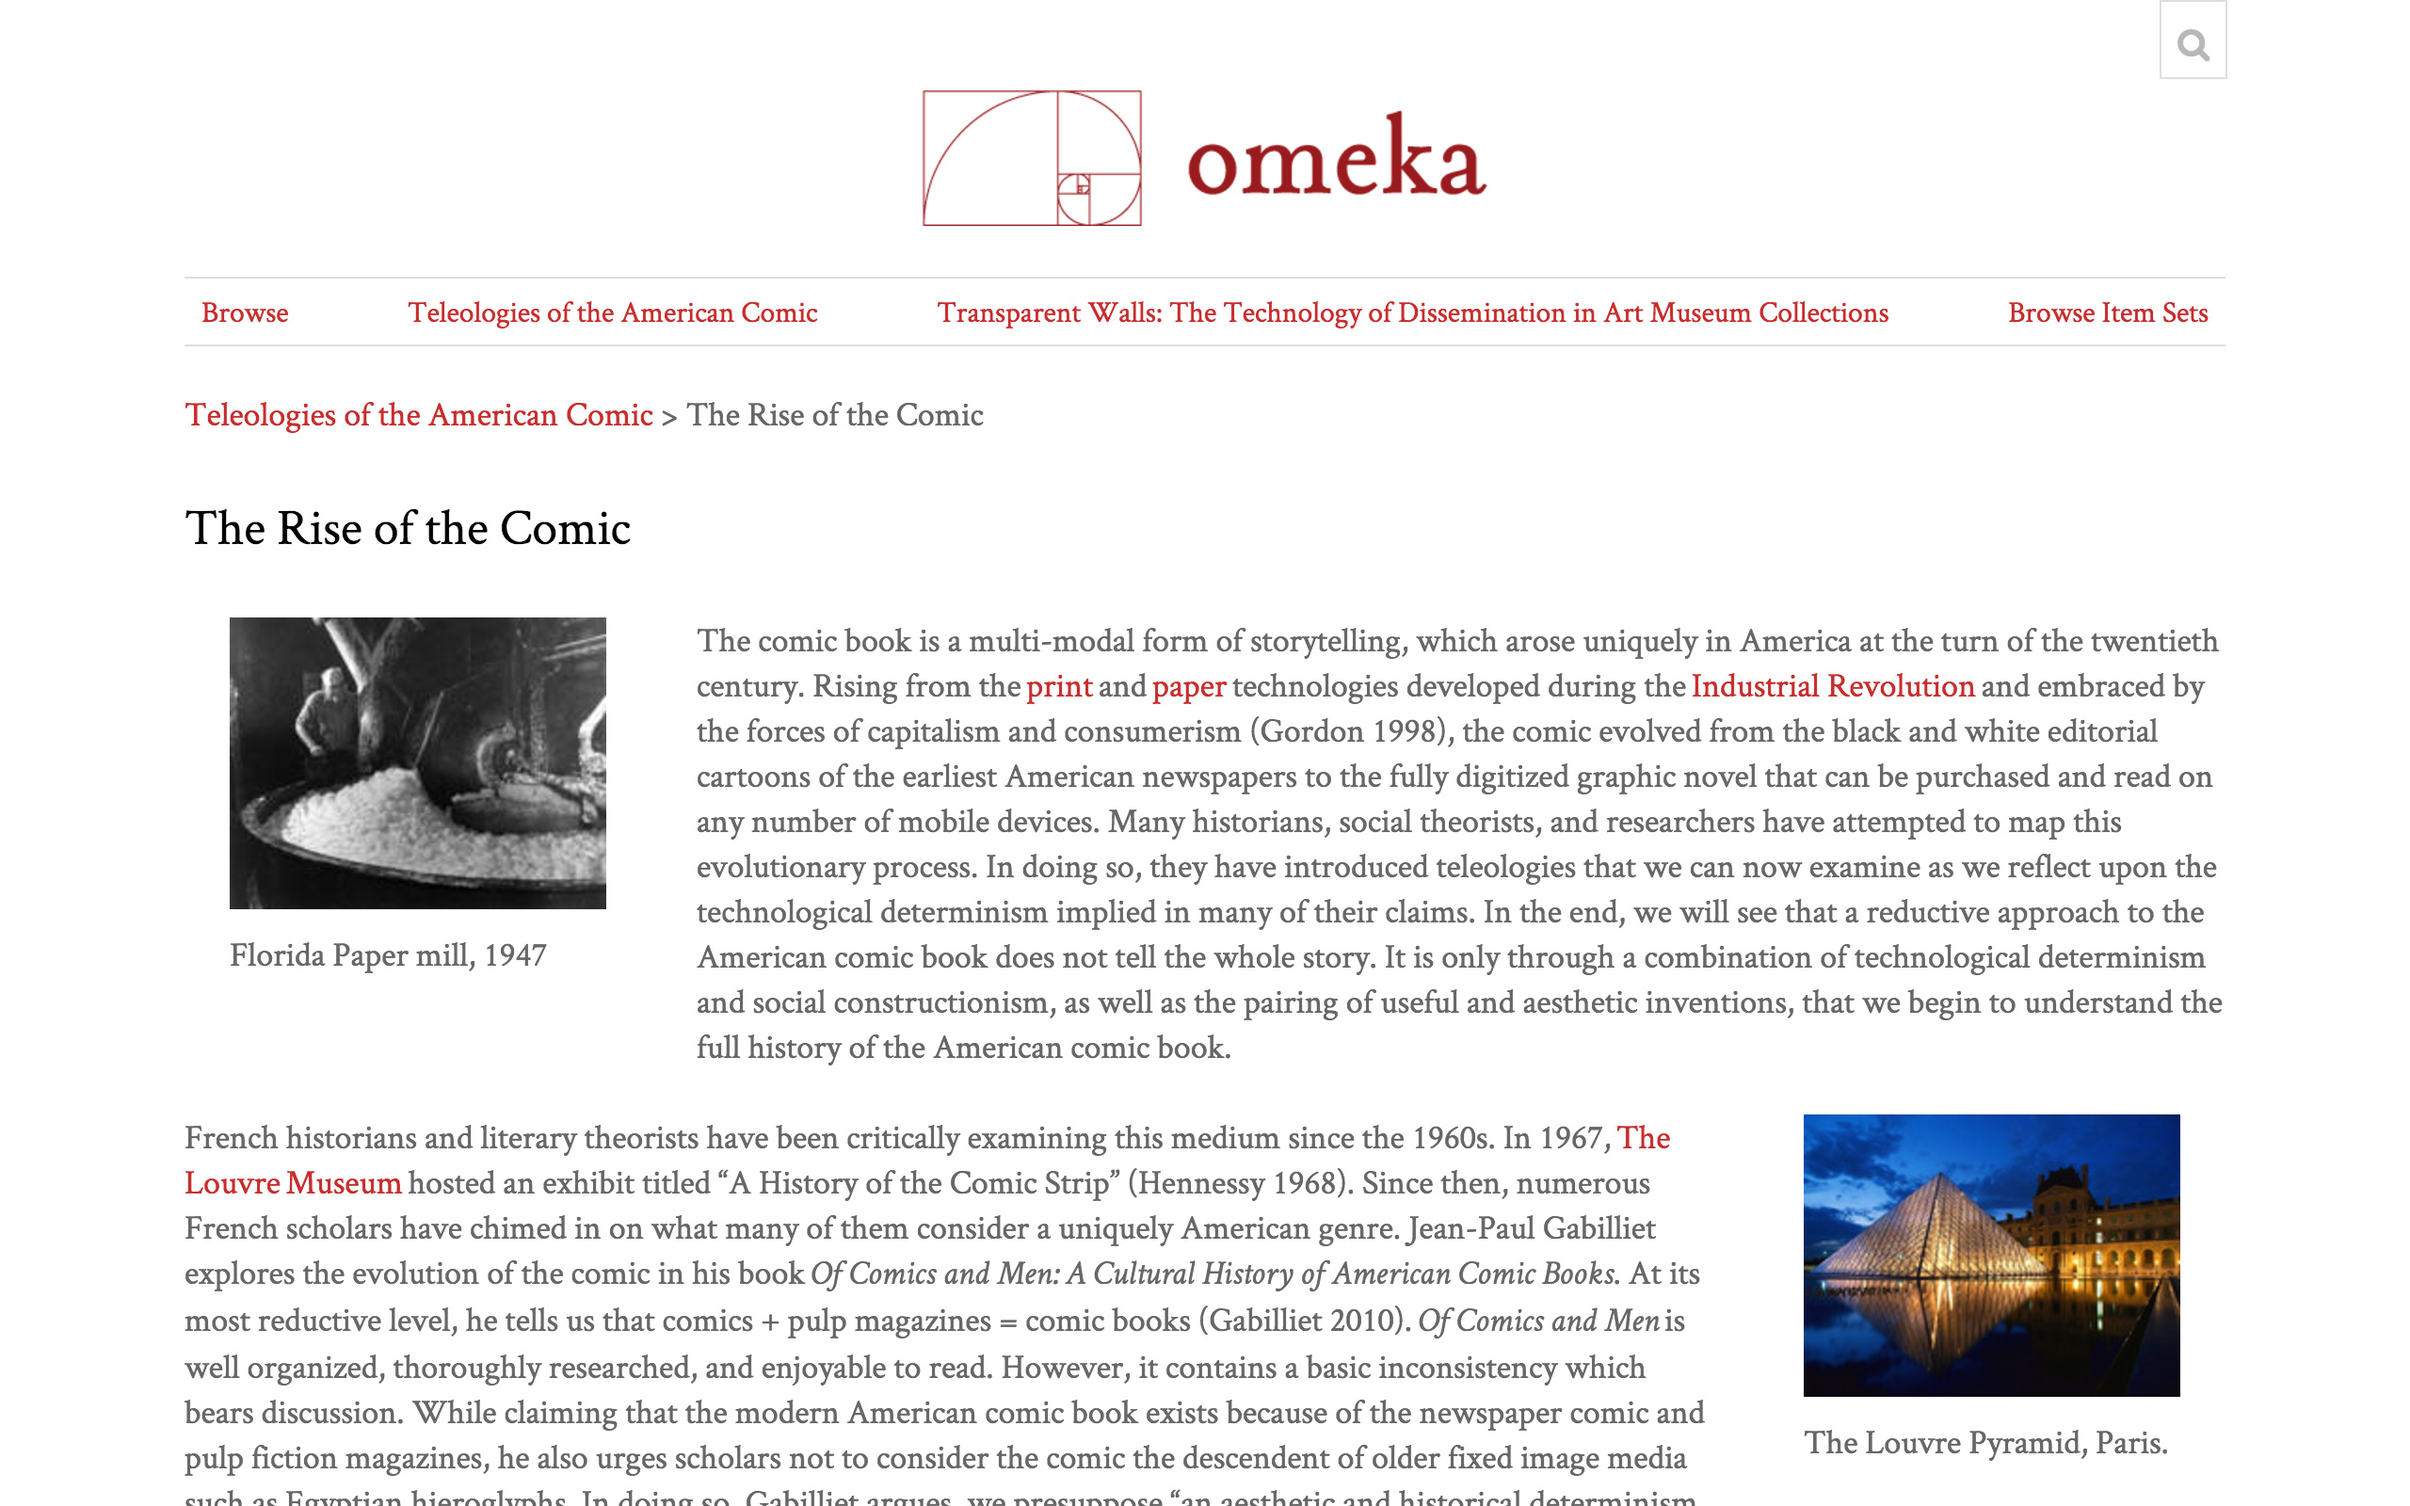
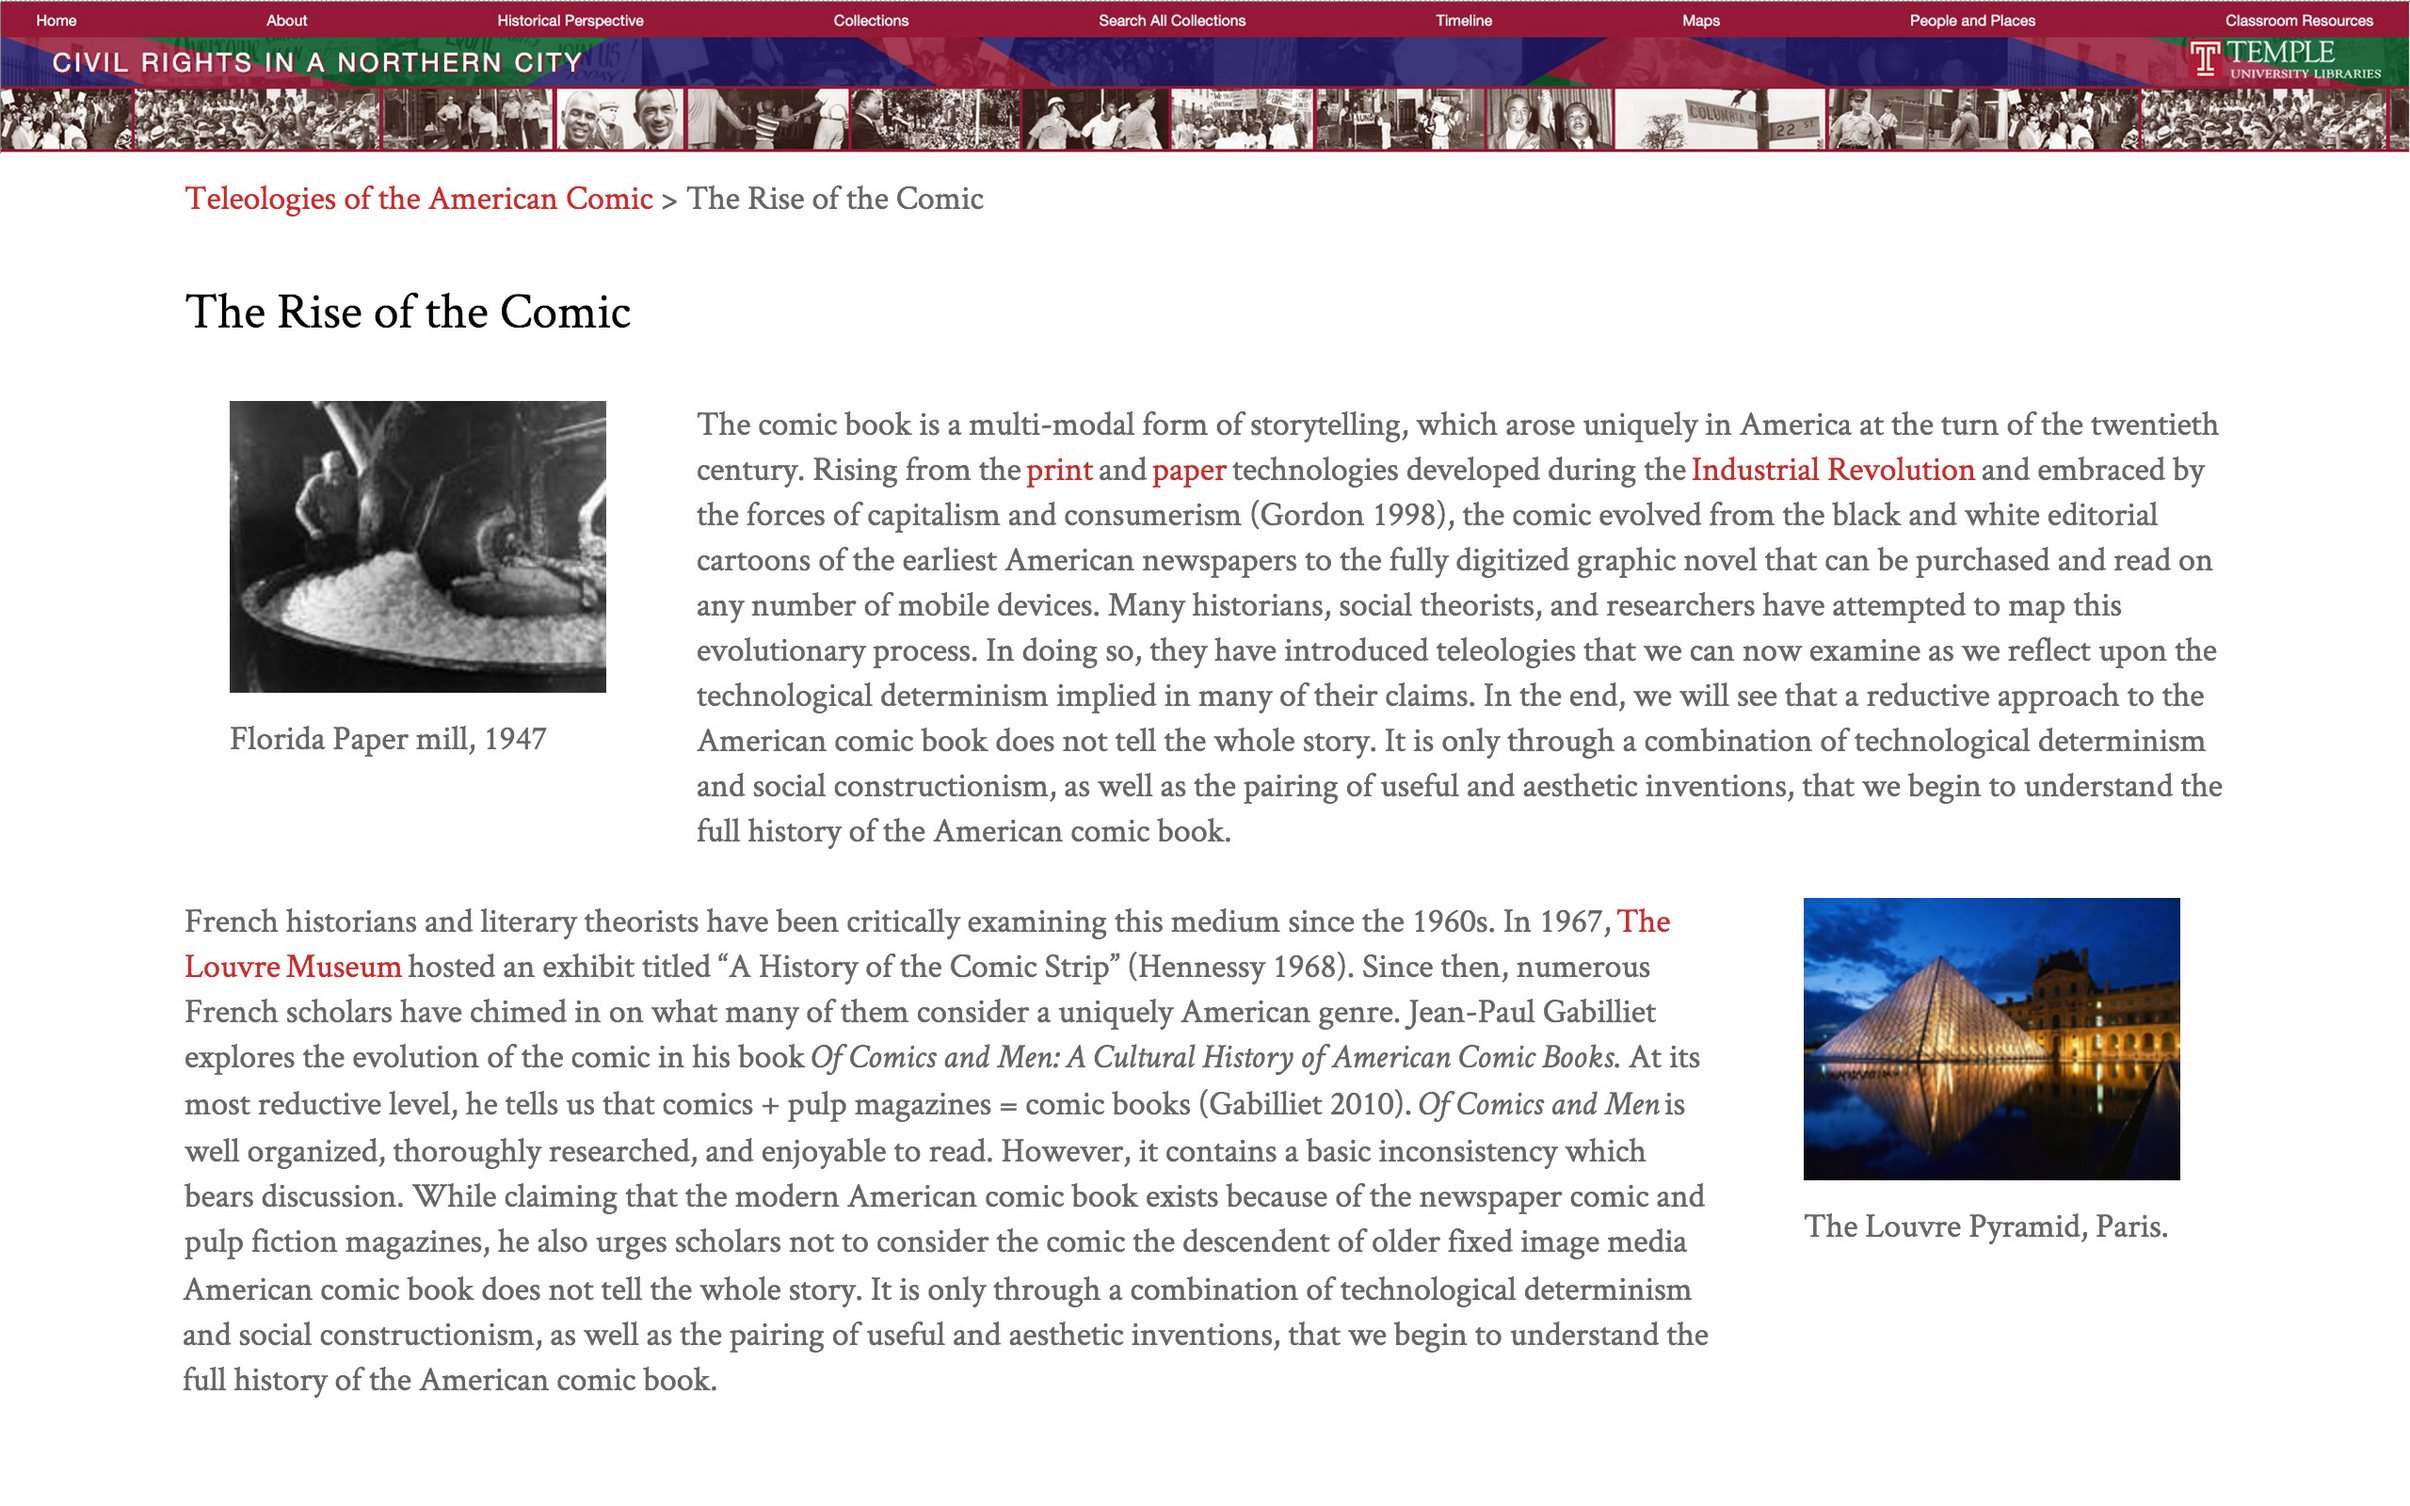
adds CRNC header and repositions theme menu section

diff --git a/asset/sass/style.scss b/asset/sass/style.scss
@@ -8,3 +8,44 @@
 @media screen and (max-width:640px) {
     @import "mobile";
 }
+
+header {
+  nav .navigation {
+    background-color: #951936;
+    position: relative;
+    list-style-type: none;
+    padding: 0;
+    display: flex;
+    justify-content: space-between;
+    align-items: stretch;
+    border-top: 0 solid #dedede;
+    border-bottom: 0 solid #dedede;
+    padding: 0 24px;
+    margin: 0;
+    a {
+      color: white;
+      font-family: "Helvetica Neue", Helvetica, Arial, sans-serif;
+    }
+    .crnc-banner {
+      background-image: url("/themes/crnc/asset/img/body.png");
+      background-repeat: repeat-x;
+      position: relative;
+      top: -48px;
+      height: 120px;
+      h1 {
+        a {
+          color: white;
+          text-align: left;
+          text-shadow: 2px 2px 2px #951936;
+          padding-left: 3rem;
+          padding-top: 2px;
+          font-family: "Helvetica Neue", Helvetica, Arial, sans-serif;
+        }
+        img {
+          float: right;
+          padding-right: 28px;
+        }
+      }
+    }
+  }
+}

diff --git a/README.md b/README.md
@@ -1,6 +1,8 @@
 # Center Row
 ## Copyright
-Center Row is Copyright © 2016-present Corporation for Digital Scholarship, Vienna, Virginia, USA http://digitalscholar.org
+CRNC is adapted from the Center Row theme by the Omeka-S team, which is Copyright © 2016-present Corporation for Digital Scholarship, Vienna, Virginia, USA http://digitalscholar.org
+
+This adaptation is solely for the use of the Civil Rights in a Northern City website.
 
 The Corporation for Digital Scholarship distributes the Omeka source code
 under the GNU General Public License, version 3 (GPLv3). The full text
